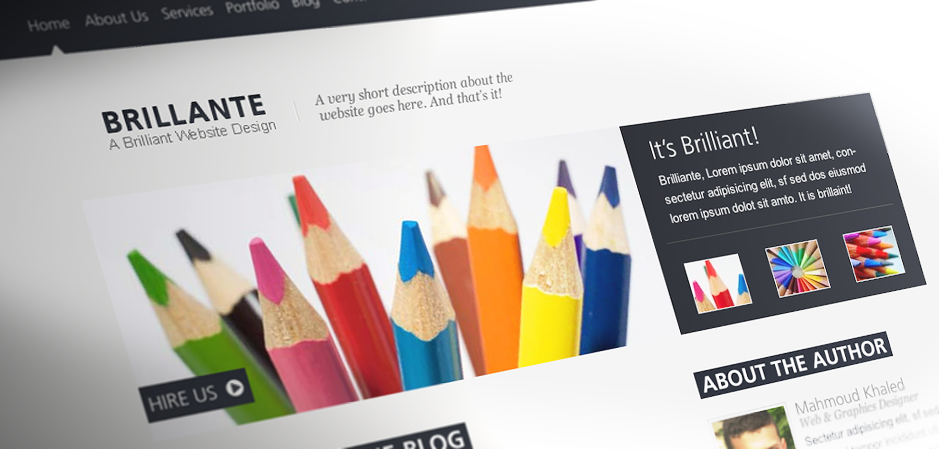
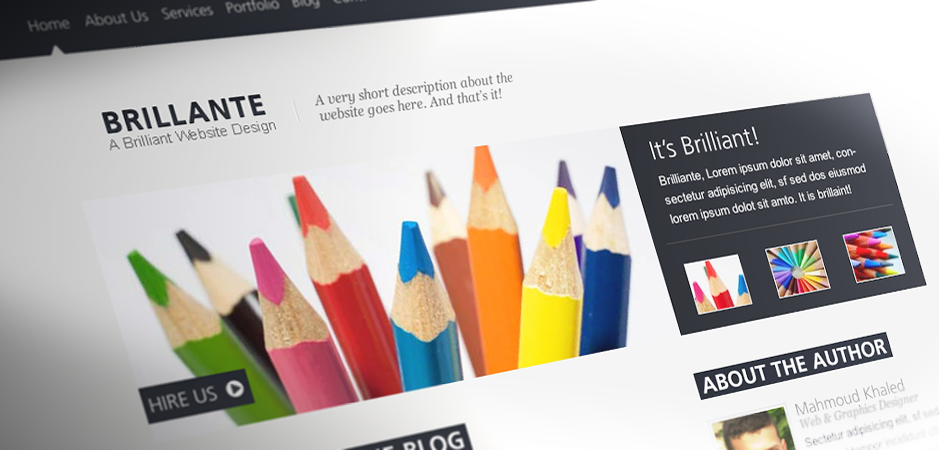
CSS3 drop shadow on the slider

diff --git a/index.html b/index.html
@@ -17,9 +17,6 @@
 				div.orbit>img{position:absolute;top:0;left:0;display:none;}
 				div.orbit>a{border:none;position:absolute;top:0;left:0;line-height:0;display:none;}
 				.orbit>div{position:absolute;top:0;left:0;width:100%;height:100%;}
-				/* Note:If your slider only uses content or anchors,you're going to want to put the width and height declarations on the ".orbit>div" and "div.orbit>a" tags in addition to just the .orbit-wrapper */
-				/* TIMER
-				================================================== */
 				div.timer{width:40px;height:40px;overflow:hidden;position:absolute;top:10px;right:10px;opacity:.6;cursor:pointer;z-index:1001;}
 				span.rotator{display:block;width:40px;height:40px;position:absolute;top:0;left:-20px;background:url(https://github.com/zurb/orbit/raw/master/orbit/rotator-black.png) no-repeat;z-index:3;}
 				span.mask{display:block;width:20px;height:40px;position:absolute;top:0;right:0;z-index:2;overflow:hidden;}
@@ -47,9 +44,6 @@
 				.orbit-bullets li.has-thumb{background:none;width:100px;height:75px;}
 				.orbit-bullets li.active.has-thumb{background-position:0 0;border-top:2px solid #000;}
 
-				/* --------------------------------------------------
-				Global Reset & Standards
-				-------------------------------------------------- */
 				html,body{margin:0;padding:0;}
 				h1,h2,h3,h4,h5,h6,p,blockquote,pre,a,abbr,acronym,address,cite,code,img,small,strike,strong,em,sub,sup,tt,dd,dl,dt,li,ol,ul,fieldset,form,label,legend,button,table,caption,tbody,tfoot,thead,tr,th,td,section{margin:0;padding:0;border:0;font-weight:normal;font-style:normal;font-size:100%;line-height:1;font-family:inherit;text-align:left;}
 				table{border-collapse:collapse;border-spacing:0;}
@@ -64,6 +58,10 @@
 				a, a:hover {text-decoration:none;border-bottom: 1px solid grey;color:white;}
 				strong{font-weight:bold;}
 				.orbit-wrapper .orbit-caption {font-family: helvetica, arial, sans-serif;}
+				
+				#featured{position:static/relative/absolute/fixed;}
+					.orbit-wrapper:before,.orbit-wrapper:after{z-index:-1;position:absolute;content:"";bottom:15px;left:10px;width:50%;top:80%;max-width:470px;background:rgba(0,0,0,0.6);-webkit-box-shadow:0 15px 10px rgba(0,0,0,0.6);-moz-box-shadow:0 15px 10px rgba(0,0,0,0.6);box-shadow:0 15px 10px rgba(0,0,0,0.6);-webkit-transform:rotate(-3deg);-moz-transform:rotate(-3deg);-o-transform:rotate(-3deg);-ms-transform:rotate(-3deg);transform:rotate(-3deg);}
+			.orbit-wrapper:after{-webkit-transform:rotate(3deg);-moz-transform:rotate(3deg);-o-transform:rotate(3deg);-ms-transform:rotate(3deg);transform:rotate(3deg);right:10px;left:auto;}
 			</style>
 			<link href='http://fonts.googleapis.com/css?family=Terminal+Dosis+Light&v2' rel='stylesheet' type='text/css'>
 			<script>
@@ -94,8 +92,6 @@
 			         div.caption { background:transparent; filter:progid:DXImageTransform.Microsoft.gradient(startColorstr=#99000000,endColorstr=#99000000);zoom: 1; }
 			    </style>
 			<![endif]-->
-
-			
 			<script type="text/javascript">
 			     $(window).load(function() {
 			         $('#featured').orbit({
@@ -105,29 +101,19 @@
 			</script>
 		</head>
 		<body>
-
 			<div class="container">
-			
 				<h1>tatygrassini / portfolio</h1>
-				
 						<div id="featured">
 							<img src="screenshots/minimalistic.png" data-caption="#minimalistic" />
 							<img src="screenshots/rocking-layout.png" data-caption="#rocking-layout" />
 							<img src="screenshots/brillante.png" data-caption="#brillante" />
-							<img src="screenshots/polo360.png" data-caption="#polo360" />
-						
+							<img src="screenshots/polo360.png" data-caption="#polo360" />			
 							<!-- Captions -->
-
 							<span class="orbit-caption" id="minimalistic"><strong>Minimalistic:</strong> visit the <a href="http://tatygrassini.github.com/Minimalistic_Layout/" target="_blank">Live Demo</a> or take look at the <a href="https://github.com/tatygrassini/Minimalistic_Layout" target="_blank">Code</a>!</span>
-
-							<span class="orbit-caption" id="rocking-layout"><strong>Rocking:</strong> visit the <a href="http://tatygrassini.github.com/Rocking_Layout/" target="_blank">Live Demo</a> or take look at the <a href="https://github.com/tatygrassini/Rocking_Layout" target="_blank">Code</a>!</span>
-							
+							<span class="orbit-caption" id="rocking-layout"><strong>Rocking:</strong> visit the <a href="http://tatygrassini.github.com/Rocking_Layout/" target="_blank">Live Demo</a> or take look at the <a href="https://github.com/tatygrassini/Rocking_Layout" target="_blank">Code</a>!</span>					
 							<span class="orbit-caption" id="brillante"><strong>Brillante:</strong> visit the <a href="http://tatygrassini.github.com/Brilliante_Layout/" target="_blank">Live Demo</a> or take look at the <a href="https://github.com/tatygrassini/Brilliante_Layout" target="_blank">Code</a>!</span>
-
 							<span class="orbit-caption" id="polo360"><strong>Polo360:</strong> Oops! Still working on <a href="https://github.com/tatygrassini/Polo360_Layout" target="_blank">this one</a>!</span>
 						</div><!-- #featured -->
-
 			</div><!-- .container -->
-			
 		</body>
 	</html>
